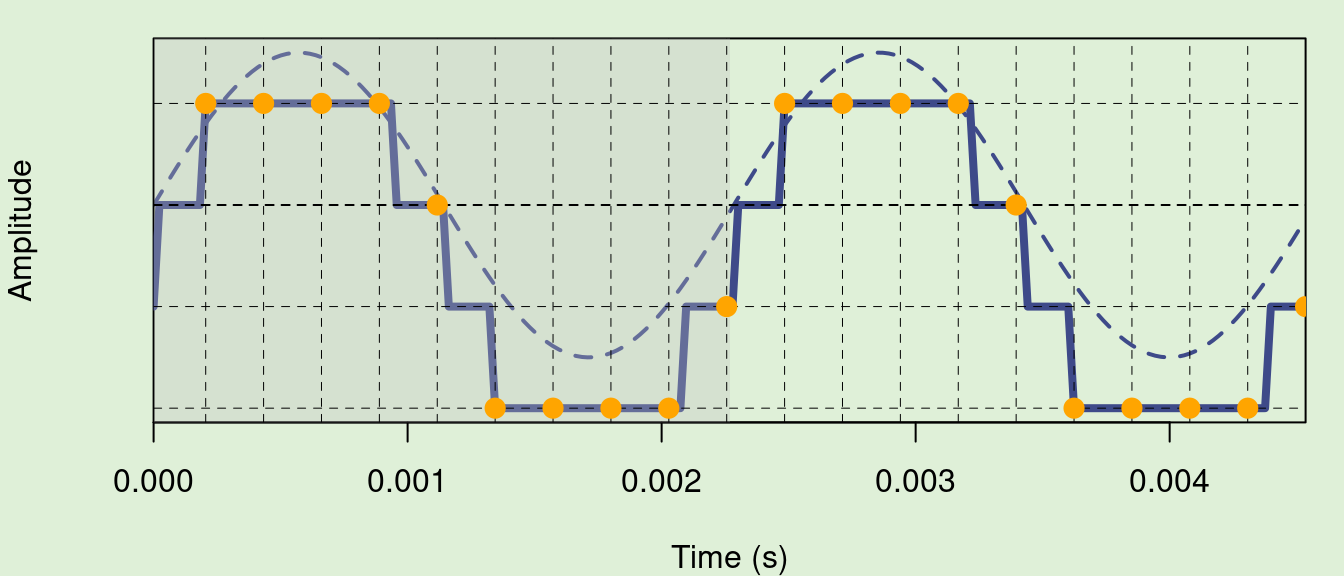
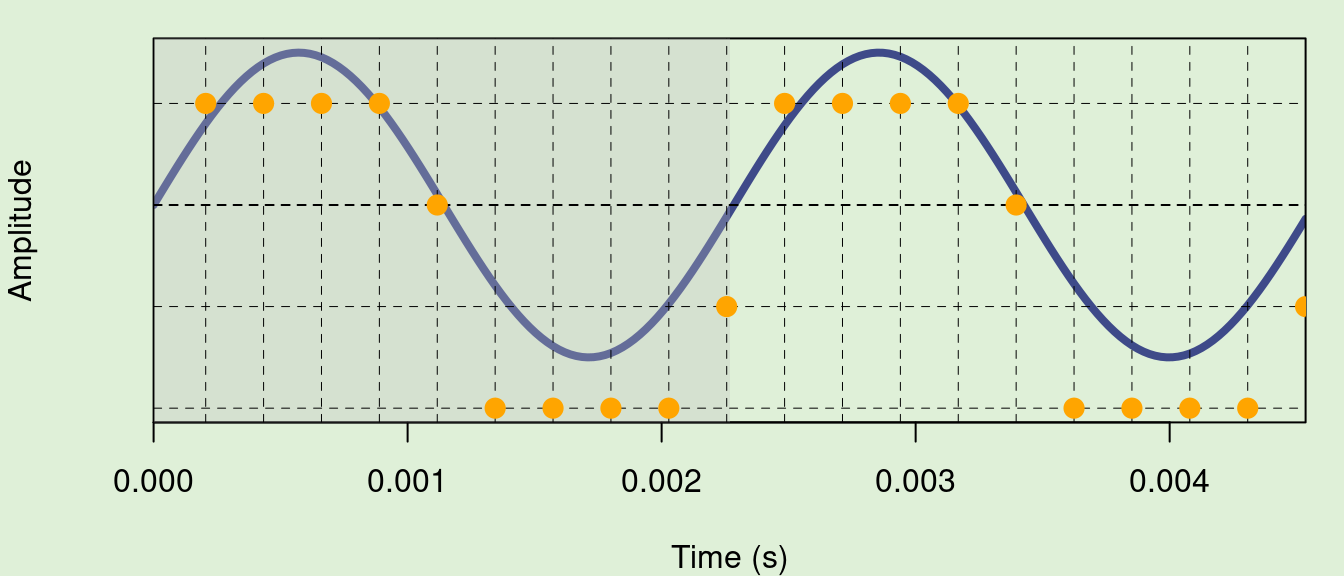
more site updates

diff --git a/docs/sound.html b/docs/sound.html
@@ -504,7 +504,6 @@ div.tocify {
 <p><img src="sound_files/figure-html/unnamed-chunk-2-1.png" width="85%" /></p>
  
 <div class="alert alert-success">
-#
 <center>
 <font size="6"><b>Digitizing sound</b></font>
 </center>
@@ -519,19 +518,20 @@ div.tocify {
 <p>Sampling should be good enough so the regularity of the sine wave can be reconstructed from the sampled data. Low sampling frequencies of a high frequency sine wave might not be able to provide enough information. For instance, the same 440 kHz sine wave sampled at 22050 Hz looks like this:</p>
 <p><img src="sound_files/figure-html/unnamed-chunk-4-1.png" width="100%" />  </p>
 <p>As you can see way less samples are taken per unit of time. The threshold at which samples cannot provide a reliable estimate of the regularity of a sine wave is called <strong>Nyquist frequency</strong> and corresponds to half of the frequency of the sine wave. This is how the 2 cycles of the 440 kHz would look like when sampled at its Nyquist frequency:</p>
+<p><img src="sound_files/figure-html/unnamed-chunk-5-1.png" width="100%" /></p>
 <p> </p>
 </div>
 <div id="quantization" class="section level2">
 <h2>Quantization</h2>
-<p>Once we now at which point amplitude samples will be taken we just need to measure it. This process is called <strong>quantization</strong>. The range of amplitude values is discretized in a number equals to <code>2 ^ bits</code>. Hence, it involves some rounding of the actual amplitude values and some data loss. This is the same 440 Hz sine wave recorded at 44100 kHz quantized at 2 bits:</p>
-<p><img src="sound_files/figure-html/unnamed-chunk-5-1.png" width="100%" /></p>
+<p>Once we now at which point amplitude samples will be taken we just need to measure it. This process is called <strong>quantization</strong>. The range of amplitude values is discretized in a number of intervals equals to <code>2 ^ bits</code>. Hence, it involves some rounding of the actual amplitude values and some data loss. This is the same 440 Hz sine wave recorded at 44100 kHz quantized at 2 bits:</p>
+<p><img src="sound_files/figure-html/unnamed-chunk-6-1.png" width="100%" /></p>
 <p> </p>
-<p>Rounding and data loss is more obvious if we remove the original sine wave and bind the sampled points with lines:</p>
-<p><img src="sound_files/figure-html/unnamed-chunk-6-1.png" width="100%" />  </p>
-<p>This is the same signal quantized at 8 bits:</p>
+<p>Rounding and data loss is more obvious if we bind the sampled points with lines:</p>
 <p><img src="sound_files/figure-html/unnamed-chunk-7-1.png" width="100%" />  </p>
-<p>… and 16 bits:</p>
+<p>This is the same signal quantized at 8 bits:</p>
 <p><img src="sound_files/figure-html/unnamed-chunk-8-1.png" width="100%" />  </p>
+<p>… and 16 bits:</p>
+<p><img src="sound_files/figure-html/unnamed-chunk-9-1.png" width="100%" />  </p>
 <p>At this point quantization involves relatively small data loss.</p>
 </div>
 </div>
@@ -562,7 +562,7 @@ div.tocify {
 <p> </p>
 <p>These sequences of values only make sense when specifying the sampling rate at which they were created:</p>
 <div class="sourceCode" id="cb5"><pre class="sourceCode r"><code class="sourceCode r"><span id="cb5-1"><a href="#cb5-1" aria-hidden="true" tabindex="-1"></a><span class="fu">oscillo</span>(s1, <span class="at">f =</span> <span class="dv">8000</span>, <span class="at">from =</span> <span class="dv">0</span>, <span class="at">to =</span> <span class="fl">0.01</span>)</span></code></pre></div>
-<p><img src="sound_files/figure-html/unnamed-chunk-10-1.png" width="672" />  </p>
+<p><img src="sound_files/figure-html/unnamed-chunk-11-1.png" width="672" />  </p>
 </div>
 <div id="matrices" class="section level3">
 <h3>Matrices</h3>
@@ -574,7 +574,7 @@ div.tocify {
 <div class="sourceCode" id="cb8"><pre class="sourceCode r"><code class="sourceCode r"><span id="cb8-1"><a href="#cb8-1" aria-hidden="true" tabindex="-1"></a><span class="fu">dim</span>(s2)</span></code></pre></div>
 <pre><code>## [1] 8000    1</code></pre>
 <div class="sourceCode" id="cb10"><pre class="sourceCode r"><code class="sourceCode r"><span id="cb10-1"><a href="#cb10-1" aria-hidden="true" tabindex="-1"></a><span class="fu">oscillo</span>(s2, <span class="at">f =</span> <span class="dv">8000</span>, <span class="at">from =</span> <span class="dv">0</span>, <span class="at">to =</span> <span class="fl">0.01</span>)</span></code></pre></div>
-<p><img src="sound_files/figure-html/unnamed-chunk-11-1.png" width="672" />  </p>
+<p><img src="sound_files/figure-html/unnamed-chunk-12-1.png" width="672" />  </p>
 <p>If the matrix has more than one column, only the first column will be considered:</p>
 <div class="sourceCode" id="cb11"><pre class="sourceCode r"><code class="sourceCode r"><span id="cb11-1"><a href="#cb11-1" aria-hidden="true" tabindex="-1"></a>x <span class="ot">&lt;-</span> <span class="fu">rnorm</span>(<span class="dv">8000</span>)</span>
 <span id="cb11-2"><a href="#cb11-2" aria-hidden="true" tabindex="-1"></a></span>
@@ -585,7 +585,7 @@ div.tocify {
 <div class="sourceCode" id="cb13"><pre class="sourceCode r"><code class="sourceCode r"><span id="cb13-1"><a href="#cb13-1" aria-hidden="true" tabindex="-1"></a><span class="fu">dim</span>(s3)</span></code></pre></div>
 <pre><code>## [1] 8000    2</code></pre>
 <div class="sourceCode" id="cb15"><pre class="sourceCode r"><code class="sourceCode r"><span id="cb15-1"><a href="#cb15-1" aria-hidden="true" tabindex="-1"></a><span class="fu">oscillo</span>(s3, <span class="at">f =</span> <span class="dv">8000</span>, <span class="at">from =</span> <span class="dv">0</span>, <span class="at">to =</span> <span class="fl">0.01</span>)</span></code></pre></div>
-<p><img src="sound_files/figure-html/unnamed-chunk-12-1.png" width="672" />  </p>
+<p><img src="sound_files/figure-html/unnamed-chunk-13-1.png" width="672" />  </p>
 </div>
 <div id="time-series" class="section level3">
 <h3>Time series</h3>
@@ -599,7 +599,7 @@ div.tocify {
 <div class="sourceCode" id="cb18"><pre class="sourceCode r"><code class="sourceCode r"><span id="cb18-1"><a href="#cb18-1" aria-hidden="true" tabindex="-1"></a>s4 <span class="ot">&lt;-</span> <span class="fu">ts</span>(<span class="at">data =</span> <span class="fu">runif</span>(<span class="dv">4000</span>, <span class="at">min =</span> <span class="sc">-</span><span class="dv">1</span>, <span class="at">max =</span> <span class="dv">1</span>), <span class="at">start =</span> <span class="dv">0</span>, <span class="at">end =</span> <span class="fl">0.5</span>, <span class="at">frequency =</span> <span class="dv">8000</span>)</span>
 <span id="cb18-2"><a href="#cb18-2" aria-hidden="true" tabindex="-1"></a></span>
 <span id="cb18-3"><a href="#cb18-3" aria-hidden="true" tabindex="-1"></a><span class="fu">str</span>(s4)</span></code></pre></div>
-<pre><code>##  Time-Series [1:4001] from 0 to 0.5: -0.102 -0.875 -0.117 -0.769 -0.386 ...</code></pre>
+<pre><code>##  Time-Series [1:4001] from 0 to 0.5: -0.8568 0.4143 -0.9964 0.0164 0.1355 ...</code></pre>
 <p> </p>
 <p>The <code>frequency()</code> and <code>deltat()</code> functions return the sampling frequency (<span class="math inline">\(f\)</span>) and the time resolution (<span class="math inline">\(Delta t\)</span>) respectively:</p>
 <div class="sourceCode" id="cb20"><pre class="sourceCode r"><code class="sourceCode r"><span id="cb20-1"><a href="#cb20-1" aria-hidden="true" tabindex="-1"></a><span class="fu">frequency</span>(s4)</span></code></pre></div>
@@ -609,14 +609,14 @@ div.tocify {
 <p> </p>
 <p>As the frequency is incorporated into the <code>ts</code> objects, it is not necessary to specify it when used within functions dedicated to audio:</p>
 <div class="sourceCode" id="cb24"><pre class="sourceCode r"><code class="sourceCode r"><span id="cb24-1"><a href="#cb24-1" aria-hidden="true" tabindex="-1"></a><span class="fu">oscillo</span>(s4, <span class="at">from =</span> <span class="dv">0</span>, <span class="at">to =</span> <span class="fl">0.01</span>)</span></code></pre></div>
-<p><img src="sound_files/figure-html/unnamed-chunk-16-1.png" width="672" />  </p>
+<p><img src="sound_files/figure-html/unnamed-chunk-17-1.png" width="672" />  </p>
 <p>In the case of multiple time series, <strong>seewave</strong> functions will consider only the first series:</p>
 <div class="sourceCode" id="cb25"><pre class="sourceCode r"><code class="sourceCode r"><span id="cb25-1"><a href="#cb25-1" aria-hidden="true" tabindex="-1"></a>s5 <span class="ot">&lt;-</span> <span class="fu">ts</span>(<span class="at">data =</span> s3, <span class="at">f =</span> <span class="dv">8000</span>)</span>
 <span id="cb25-2"><a href="#cb25-2" aria-hidden="true" tabindex="-1"></a></span>
 <span id="cb25-3"><a href="#cb25-3" aria-hidden="true" tabindex="-1"></a><span class="fu">class</span>(s5)</span></code></pre></div>
 <pre><code>## [1] &quot;mts&quot;    &quot;ts&quot;     &quot;matrix&quot;</code></pre>
 <div class="sourceCode" id="cb27"><pre class="sourceCode r"><code class="sourceCode r"><span id="cb27-1"><a href="#cb27-1" aria-hidden="true" tabindex="-1"></a><span class="fu">oscillo</span>(s5, <span class="at">from =</span> <span class="dv">0</span>, <span class="at">to =</span> <span class="fl">0.01</span>)</span></code></pre></div>
-<p><img src="sound_files/figure-html/unnamed-chunk-17-1.png" width="672" /></p>
+<p><img src="sound_files/figure-html/unnamed-chunk-18-1.png" width="672" /></p>
 </div>
 </div>
 <div id="dedicated-r-classes-for-sound" class="section level2">
@@ -870,7 +870,7 @@ div.tocify {
 <span id="cb78-3"><a href="#cb78-3" aria-hidden="true" tabindex="-1"></a></span>
 <span id="cb78-4"><a href="#cb78-4" aria-hidden="true" tabindex="-1"></a><span class="co"># plot</span></span>
 <span id="cb78-5"><a href="#cb78-5" aria-hidden="true" tabindex="-1"></a><span class="fu">plot</span>(wav<span class="sc">@</span>left)</span></code></pre></div>
-<p><img src="sound_files/figure-html/unnamed-chunk-36-1.png" width="672" /></p>
+<p><img src="sound_files/figure-html/unnamed-chunk-37-1.png" width="672" /></p>
 <p> </p>
 <ul>
 <li>Use the function <code>downsample()</code> to reduce the sampling rate of ‘wav’ (below 44100) and plot the output object. Decrease the sampling rate until you cannot recognize the wave pattern from the original wave object. Try several values so you get a sense at which sampling rate this happens.</li>

diff --git a/docs/program.html b/docs/program.html
@@ -475,9 +475,10 @@ div.tocify {
 <div id="homework" class="section level3 alert alert-info">
 <h3>Homework</h3>
 <ol style="list-style-type: decimal">
-<li><p>Use the function <code>query_xc()</code> to check the availability of recordings for some bird species you have in mind for your project (do not download at this step) (<a href="https://marce10.github.io/OTS_BIR_2022/get_xc_recordings.html"><em>check this brief tutorial on how to do that</em></a>)</p></li>
-<li><p>Subset the data frame returned by the function to get the subspecies/populations and vocalization type you are interested in (using base R subsetting tools)</p></li>
+<li><p>Use the function <code>query_xc()</code> to check the availability of recordings for any bird species (do not download at this step) (<a href="https://marce10.github.io/OTS_BIR_2022/get_xc_recordings.html"><em>check this brief tutorial on how to do that</em></a>)</p></li>
+<li><p>Subset the data frame returned by the function to get a subset of subspecies/populations or recordings from a specific country and for certain vocalization type (using base R subsetting tools)</p></li>
 <li><p>Download the associated recordings using <code>query_xc()</code> again</p></li>
+<li><p>Explore the recordings with any spectrogram creating GUI program</p></li>
 </ol>
 </div>
 <hr />
